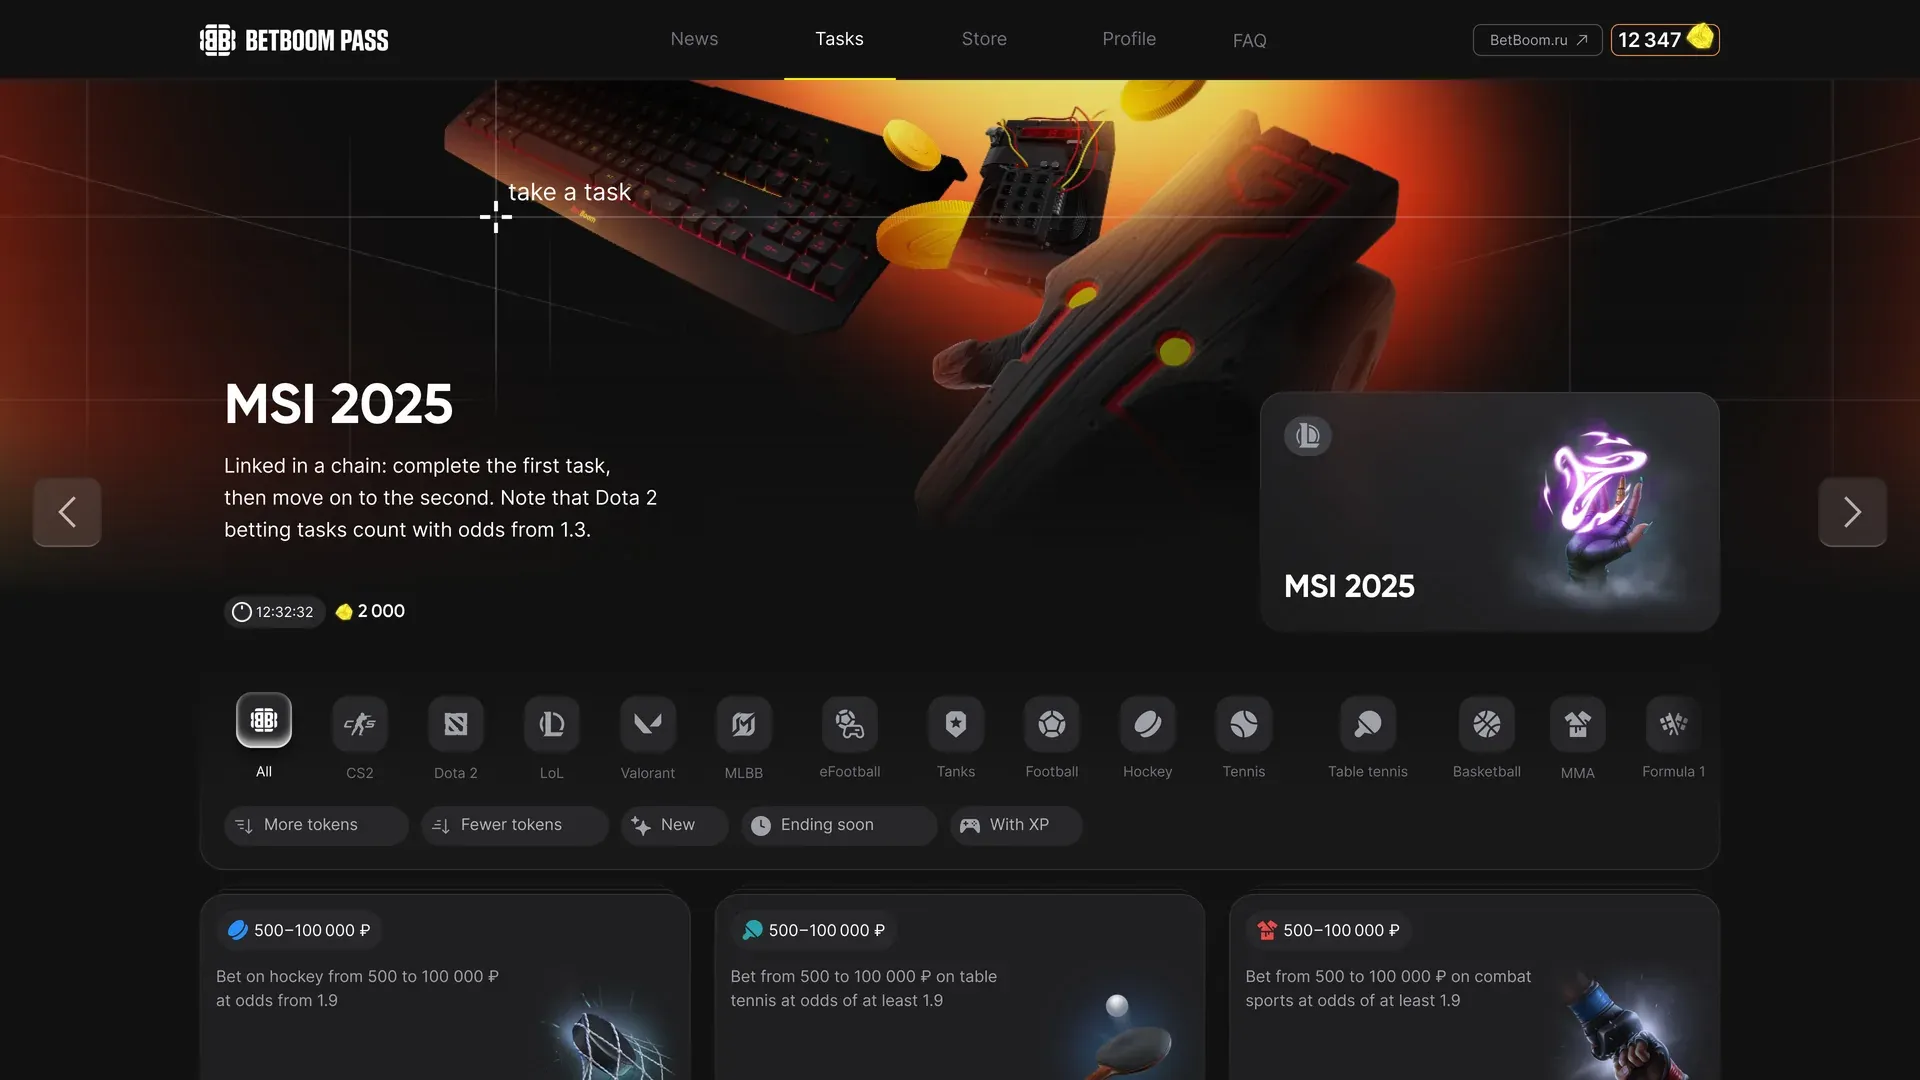
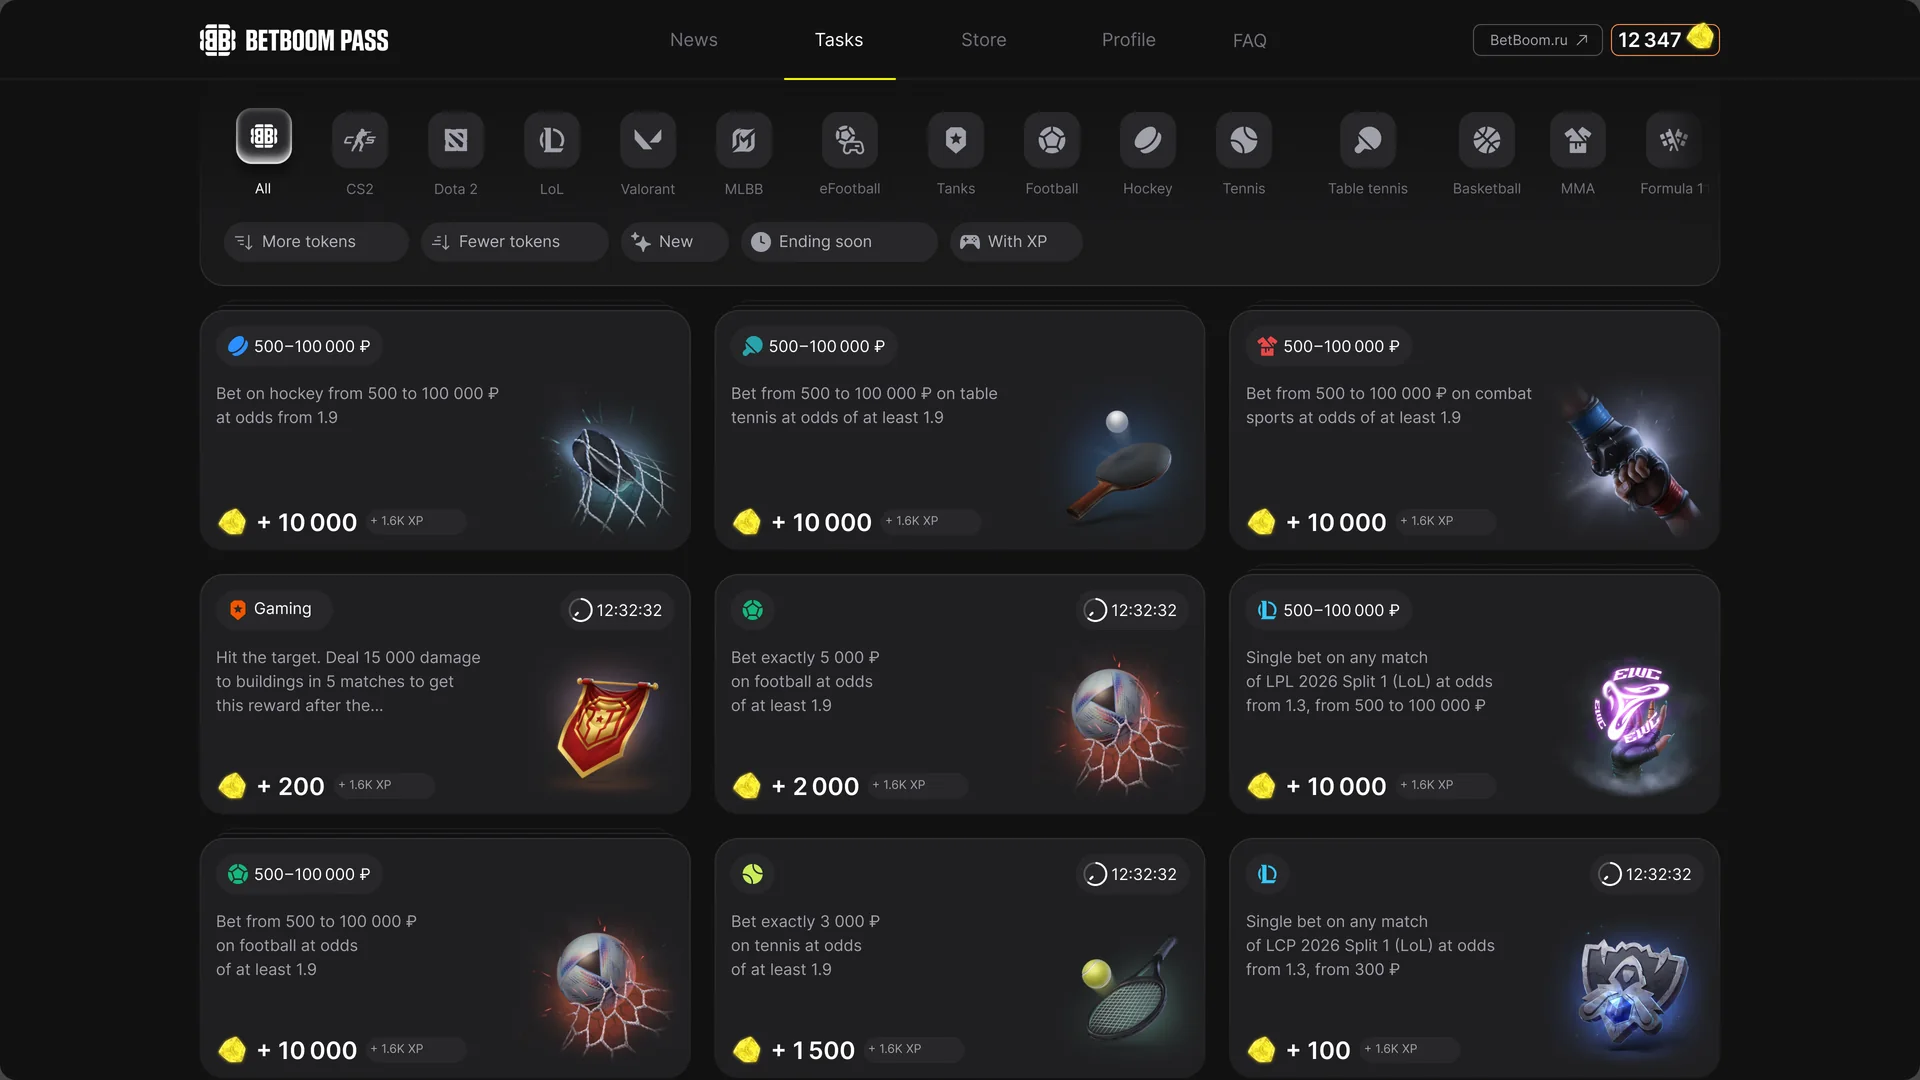
Compare the desktop task page in matching v3 frames
Before and after now share one layout, both in English. The after
frame shows no tasks widget, so the slider drops the widget credit.

diff --git a/src/data/caseStudies.js b/src/data/caseStudies.js
@@ -1032,9 +1032,10 @@ export const betboomPassCaseStudy = {
           after: {
             // TODO(p32): v3 clip of the new page — add `video: <mp4>`, this frame stays the poster.
             src: betboomDesktopAfter,
-            alt: 'Desktop task page after the redesign: hero carousel, one category bar for sports and esports, sort chips and three columns of cards',
+            alt: 'Desktop task page after the redesign: one category bar for sports and esports, sort chips and three columns of cards with a condition, timer, token reward and XP',
           },
-          caption: `Drag to compare the task page before and after the redesign. ${betboomWidgetCredit}`,
+          // The after frame has no “Your tasks” widget, so no widget credit here.
+          caption: 'Drag to compare the task page before and after the redesign.',
         },
         {
           type: 'blocks',
